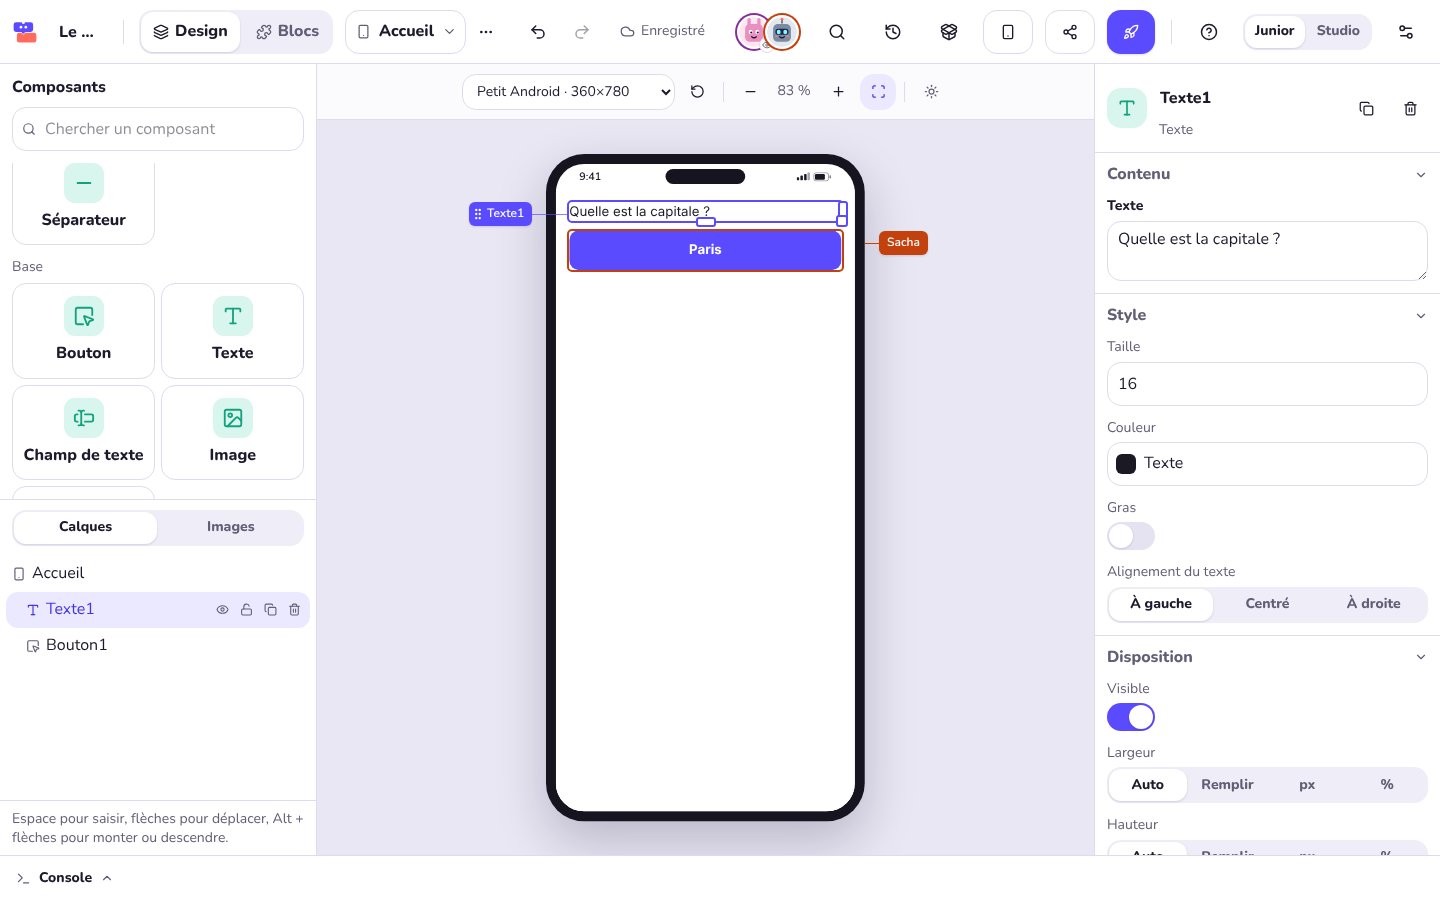
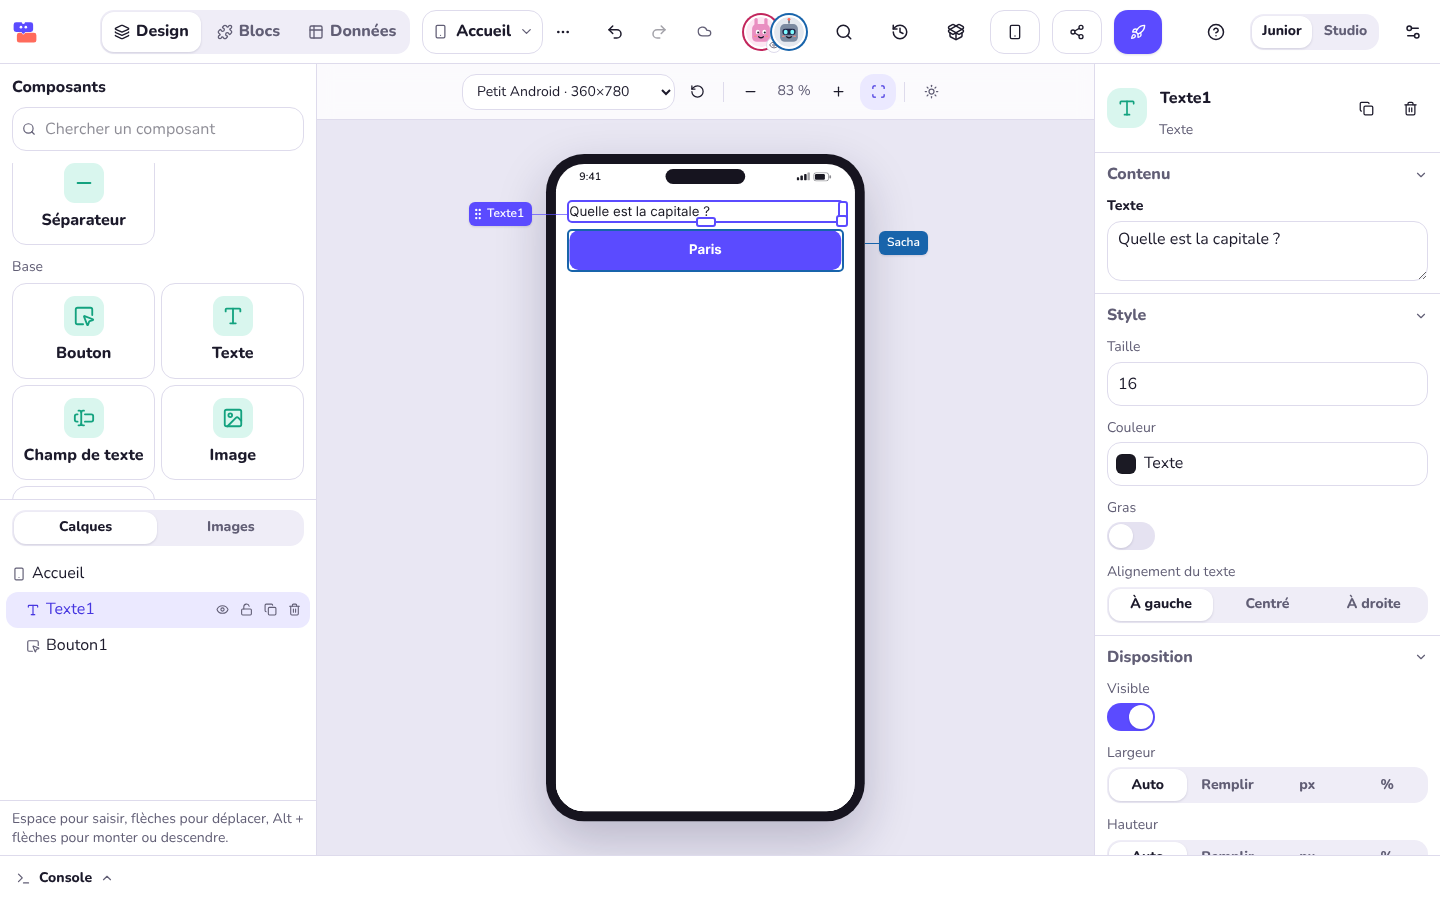
fix(studio): the Junior top bar fits with the Data tab; J4b screenshots on top of J5
Claude-Session: https://claude.ai/code/session_0131wEUqo9QWpCMS2nDf3ouE

diff --git a/apps/studio/src/styles/app.css b/apps/studio/src/styles/app.css
@@ -369,3 +369,16 @@ svg[display="none"] {
     display: inline;
   }
 }
+
+/* The save state's words in the top bar: in Junior below 1536 px, only its icon shows (the
+   words stay for screen readers, the tooltip says them), as the tabs take more room. */
+@media (max-width: 95.99rem) {
+  :root[data-mode="junior"] .rx-save-label {
+    position: absolute;
+    width: 1px;
+    height: 1px;
+    overflow: hidden;
+    clip-path: inset(50%);
+    white-space: nowrap;
+  }
+}

diff --git a/apps/studio/src/editor/top-bar.tsx b/apps/studio/src/editor/top-bar.tsx
@@ -383,7 +383,7 @@ function SaveIndicator() {
             state === 'offline' && 'text-coral',
           )}
         />
-        {label}
+        <span className="rx-save-label">{label}</span>
       </span>
     </Tooltip>
   )

diff --git a/docs/SPEC.md b/docs/SPEC.md
@@ -681,7 +681,9 @@ présence), fichiers des ressources recopiés quand on colle dans un autre proje
   éditeurs présents (Hocuspocus ne filtre pas l'awareness par connexion) : nom, avatar, écran.
 - **Barre du haut de Junior** : à 1 440 px, elle débordait déjà (le menu des préférences était
   coupé) ; les libellés de « Tester », « Partager » et « Publier » ne s'affichent en Junior
-  qu'à partir de 1 536 px (icône et infobulle en dessous).
+  qu'à partir de 1 536 px (icône et infobulle en dessous), comme le mot de l'état
+  d'enregistrement (gardé pour les lecteurs d'écran) depuis l'onglet Données du J5. Le nom du
+  projet y reste écrasé à 1 440 px (antérieur, à reprendre au J8).
 
 **Défauts antérieurs corrigés au passage**
 
